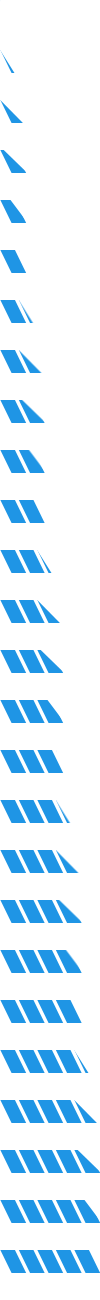
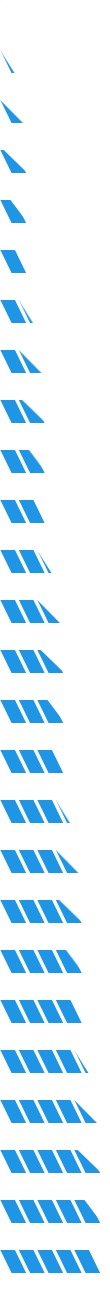
R4: Fix rating bar padding in playlist

diff --git a/static/js4/formatting.js b/static/js4/formatting.js
@@ -25,7 +25,7 @@ var Formatting = function() {
 			humantime += Math.floor(seconds / 60) + lang.timeformat_m + " ";
 			seconds = seconds % 60;
 		}
-		return humantime.substr(0, humantime.length - 1);
+		return humantime.substr(0, humantime.length - 1).trim();
 	};
 
 	self.cooldown_glance = function(seconds) {
@@ -42,7 +42,7 @@ var Formatting = function() {
 		if (seconds >= 60) {
 			return Math.floor(seconds / 60) + lang.timeformat_m;
 		}
-		return seconds + lang.timeformat_s;
+		return (seconds + lang.timeformat_s).trim();
 	};
 
 	self.minute_clock = function(seconds) {

diff --git a/static/images4/source_templates/rating_bar/sprite.py b/static/images4/source_templates/rating_bar/sprite.py
@@ -1,15 +1,15 @@
 from PIL import Image
 
-user_sheet = Image.new("RGBA", (100, 1300), None)
-all_sheet = Image.new("RGBA", (100, 1300), None)
+user_sheet = Image.new("RGBA", (130, 1300), None)
+all_sheet = Image.new("RGBA", (130, 1300), None)
 
 for i in range(0, 26):
 	sprite = Image.open("bar_%05d.png" % i)
 	user_sheet.paste(sprite.copy().crop((0, 0, 100, 23)), (0, i * 50))
 	all_sheet.paste(sprite.copy().crop((0, 24, 100, 48)), (0, i * 50))
 
-user_sheet.save("bright_hdpi.png", optimize=True)
-all_sheet.save("dark_hdpi.png", optimize=True)
+user_sheet.resize((65, 780), Image.ANTIALIAS).save("bright_ldpi.png", optimize=True)
+all_sheet.resize((65, 780), Image.ANTIALIAS).save("dark_ldpi.png", optimize=True)
 
-user_sheet.resize((50, 780), Image.ANTIALIAS).save("bright_ldpi.png", optimize=True)
-all_sheet.resize((50, 780), Image.ANTIALIAS).save("dark_ldpi.png", optimize=True)
+user_sheet.crop((0, 0, 110, 1300)).save("bright_hdpi.png", optimize=True)
+all_sheet.crop((0, 0, 110, 1300)).save("dark_hdpi.png", optimize=True)
